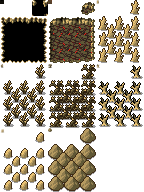
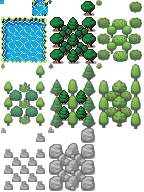
Round 89: player-biome terrain art update (user), MOD_SCOPE #87 status
User-authored replacements for player_terrain.png, player_doodads.png and
player_structures.png (identical dimensions to the originals, so tile indices and atlas
regions are unchanged). MOD_SCOPE #87 moved to In Progress after round 88.

diff --git a/MOD_SCOPE.md b/MOD_SCOPE.md
@@ -4253,7 +4253,7 @@ color a standing that the player moves through play, and territory control (#7) 
 consequences; a separate negotiation layer on top was never scoped and is not wanted. Kept here
 rather than deleted, matching how #5, #8 and #26 were retired.
 
-### 87. More Attacking Options — `Not Started (researched 2026-08-31, see STAR_TOWNS_RESEARCH.md)`
+### 87. More Attacking Options — `In Progress (first cut 2026-09-03: Attack/Leave at a War-status AI town, random roamer from the color pool, defender starts with its basic land tapped; town capture and defender tiers pending; researched 2026-08-31, see STAR_TOWNS_RESEARCH.md)`
 User wishlist addition (2026-08-18): expand the player's offensive options against AI
 towns/castles beyond the current Territory Control capture mechanism (#7). Scope not yet defined -
 could mean new attack types, mercenary/ally forces, siege mechanics, or something else.

diff --git a/CLAUDE.md b/CLAUDE.md
@@ -50,6 +50,9 @@ Done today (committed):
   main:master`.
 - Upstream moved 5 commits past c817743ecbd; take them with the next engine update + Forge_2
   reinstall. Optional: upstream added MSH to common starterEditions; TFR's list untouched.
+- Round 89 (2026-09-03): user's player-biome art update (player_terrain/doodads/structures PNGs,
+  same dimensions as before). `*_original.png` backups sit UNTRACKED in the plane folder - they
+  ship in the live folder until moved; do not delete them without asking.
 - Round 88 (2026-09-03): multi-slot research + settings.json researchDays/researchShardCost;
   War town assault first cut (Attack/Leave at a War town, random roamer, tapped basic land via new
   engine plumbing). NOT playtested. Follow-ups the user announced: defender tier system, town
